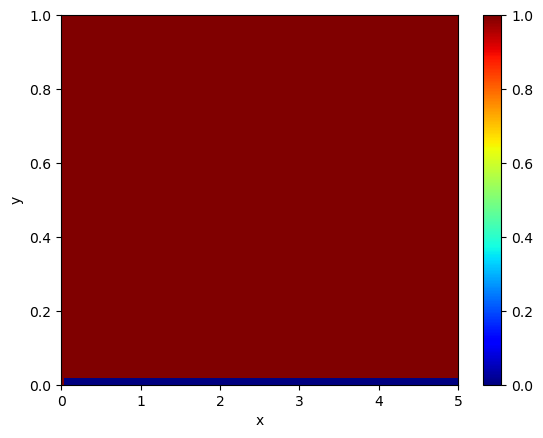
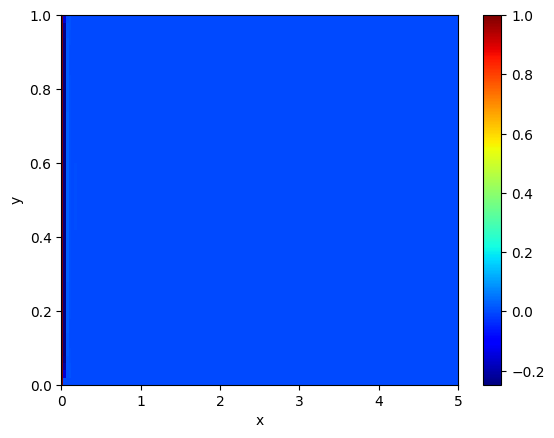
reduce re

diff --git a/escoamento_2D/2D/jato2D.py b/escoamento_2D/2D/jato2D.py
@@ -29,7 +29,7 @@ def animate(k):
 ni     = 151
 nj     = 51
 nt     = 10000
-re     = 900.
+re     = 10.
 dt     = 1.e-3
 L      = 5.
 H      = 1.
